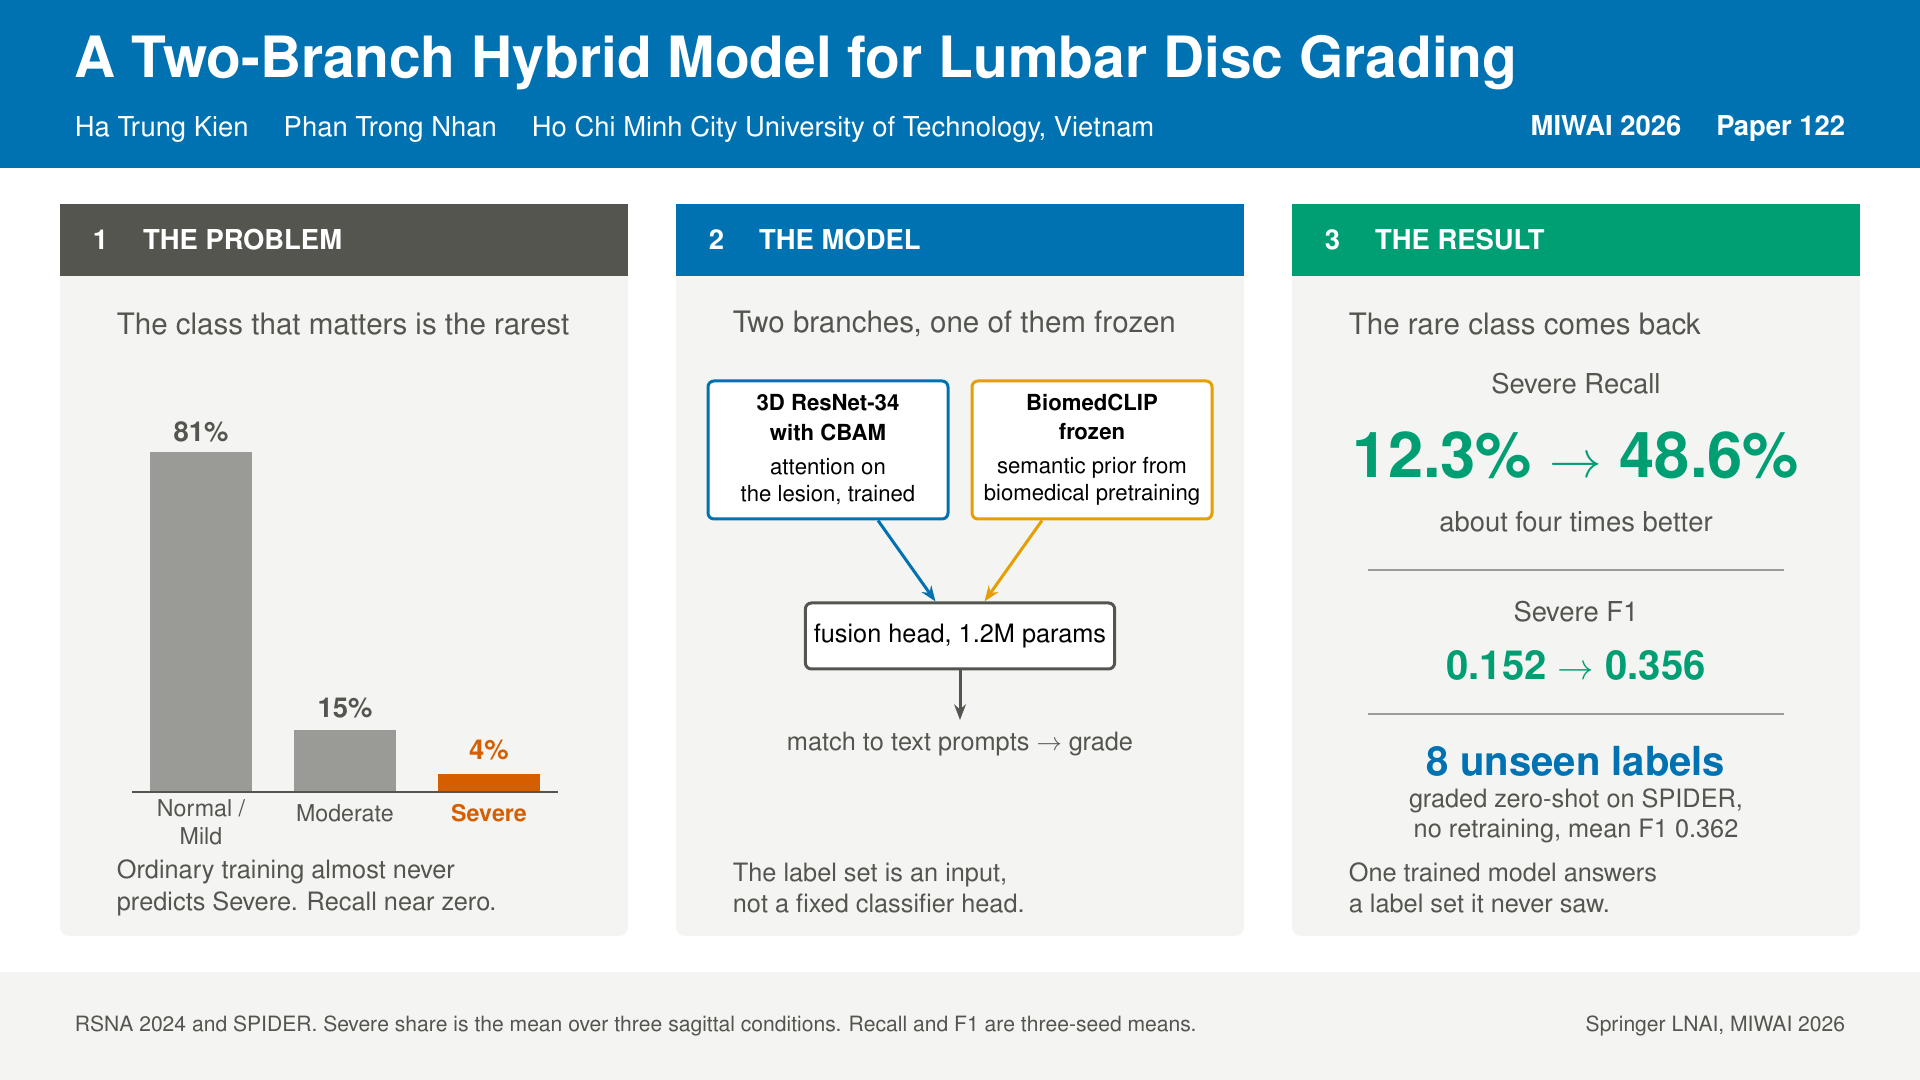
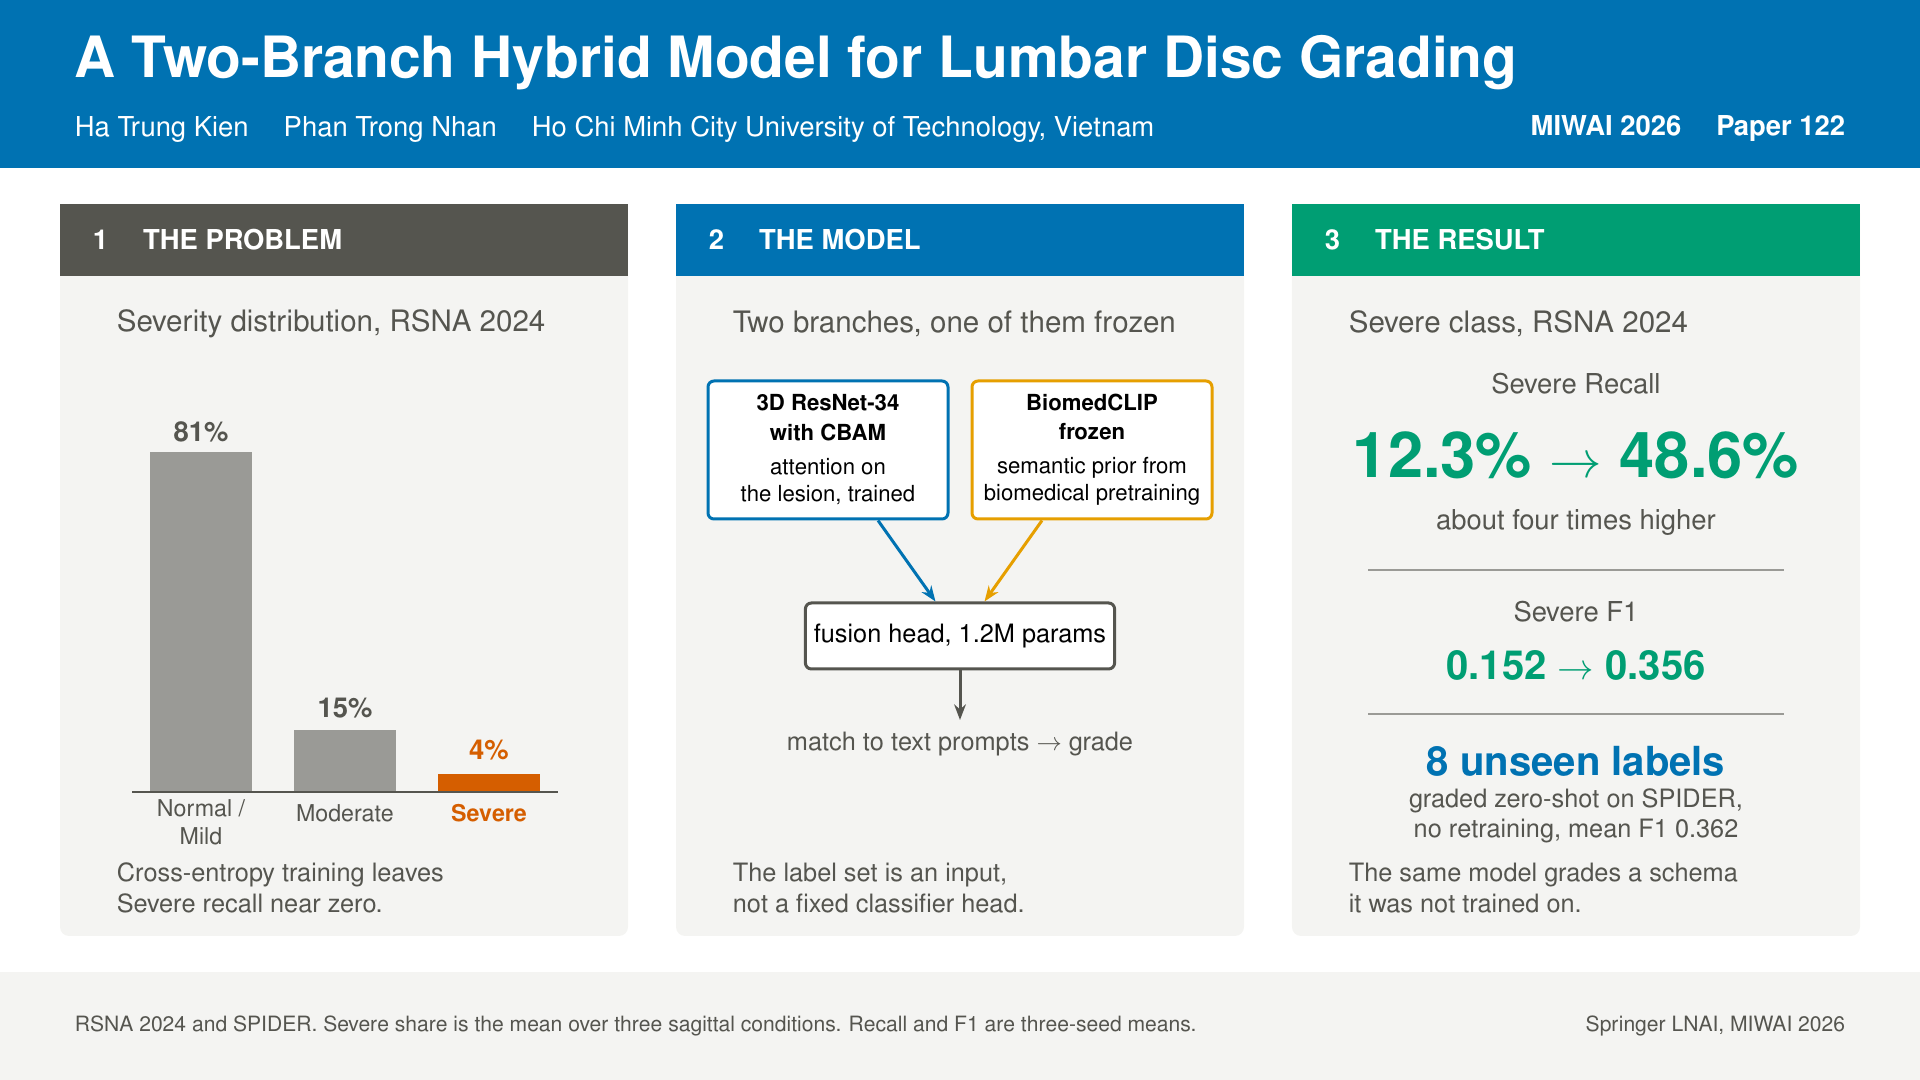
miwai(async): plainer wording on the infographic and the README
The three panel subheadings were slogans rather than descriptions: "The class
that matters is the rarest", "The rare class comes back", and "One trained
model answers a label set it never saw". They now say what the panel shows.
"About four times better" became "about four times higher", since what is
four times larger is the recall, not the model.

The README had section headings written like a consultant's deck. It now reads
as a student writing to his advisor, and the three open points are numbered
questions rather than a bulleted list of assertions.

diff --git a/paper/camera_ready/miwai_async/infographic.tex b/paper/camera_ready/miwai_async/infographic.tex
@@ -61,7 +61,7 @@
 
 %% ------------------------------------------------- panel 1: imbalance
 \node[anchor=west, font=\fontsize{14}{17}\selectfont, text=inkGrey]
-     at (18,126) {The class that matters is the rarest};
+     at (18,126) {Severity distribution, RSNA 2024};
 
 % bars, baseline at y = 48, full scale 70 mm = 100 %
 \fill[barGrey]      (25,48) rectangle ++(17,56.7);
@@ -78,7 +78,7 @@
 \node[font=\fontsize{11}{13}\selectfont\bfseries, text=oiVermillion] at (81.5,44.5) {Severe};
 
 \node[anchor=west, font=\fontsize{12}{15}\selectfont, text=inkGrey, align=left]
-     at (18,32) {Ordinary training almost never\\predicts Severe. Recall near zero.};
+     at (18,32) {Cross-entropy training leaves\\Severe recall near zero.};
 
 %% ------------------------------------------------- panel 2: architecture
 % The two boxes sit side by side, not stacked: stacking made the upper
@@ -113,12 +113,12 @@
 
 %% ------------------------------------------------- panel 3: results
 \node[anchor=west, font=\fontsize{14}{17}\selectfont, text=inkGrey]
-     at (223.33,126) {The rare class comes back};
+     at (223.33,126) {Severe class, RSNA 2024};
 
 \node[font=\fontsize{13}{15}\selectfont, text=inkGrey] at (262.67,116) {Severe Recall};
 \node[font=\fontsize{30}{32}\selectfont\bfseries, text=oiGreen] at (262.67,104)
      {12.3\% $\rightarrow$ 48.6\%};
-\node[font=\fontsize{13}{15}\selectfont, text=inkGrey] at (262.67,93) {about four times better};
+\node[font=\fontsize{13}{15}\selectfont, text=inkGrey] at (262.67,93) {about four times higher};
 
 \draw[barGrey, line width=0.25mm] (228,85) -- (297.33,85);
 
@@ -134,7 +134,7 @@
      {graded zero-shot on SPIDER,\\no retraining, mean F1 0.362};
 
 \node[anchor=west, font=\fontsize{12}{15}\selectfont, text=inkGrey, align=left]
-     at (223.33,32) {One trained model answers\\a label set it never saw.};
+     at (223.33,32) {The same model grades a schema\\it was not trained on.};
 
 %% ---------------------------------------------------------------- footer
 \fill[panelBg] (0,0) rectangle (320,18);

diff --git a/paper/camera_ready/miwai_async/README.md b/paper/camera_ready/miwai_async/README.md
@@ -1,55 +1,52 @@
-# MIWAI 2026, paper 122: materials for the asynchronous session
+# MIWAI 2026, paper 122: files for the asynchronous session
 
-Everything the organizers asked for, in one place, plus the two files the
-live talk needs. Conference is in Halifax, Nova Scotia, 10 to 12 October 2026.
+The conference is in Halifax, Nova Scotia, 10 to 12 October 2026.
 
-## What the organizers require
-
-Their email says every paper must take part in the asynchronous session, and
-that the asynchronous session carries "an abstract, infographic and video for
-each paper".
+The organizers wrote that every paper has to join the asynchronous session,
+and that it carries "an abstract, infographic and video for each paper".
 
 | Required | File | Status |
 | --- | --- | --- |
-| Abstract | `abstract.txt` | Ready. 247 words, taken verbatim from the accepted paper. |
-| Infographic | `infographic.png` | Draft for review. 1920 x 1080. |
-| Video | not here | Not recorded yet. Script and slides below are the raw material. |
+| Abstract | `abstract.txt` | Done. 247 words, copied from the accepted paper. |
+| Infographic | `infographic.png` | Draft. 1920 x 1080. |
+| Video | | Not recorded yet. |
 
-## Supporting files, not submitted on their own
+The slides and the script are not submitted on their own, but the video will
+be recorded from them.
 
 | File | What it is |
 | --- | --- |
-| `presentation_miwai.pdf` | The talk deck, 23 pages: 14 to present, 3 of references, 5 held in reserve for questions. |
-| `TALK_SCRIPT.md` | Word for word speaking script, timed per slide, lands at 13 to 14 minutes inside a 15 minute slot. Also carries the anticipated questions and their answers. |
-| `infographic.tex` | Source of the infographic. Rebuild with the two commands in its header comment. |
+| `presentation_miwai.pdf` | The deck, 23 pages. 14 to present, 3 of references, 5 kept back for questions. |
+| `TALK_SCRIPT.md` | What to say on each slide, with timings. Runs 13 to 14 minutes in a 15 minute slot. Likely questions are at the end. |
+| `infographic.tex` | Source of the infographic. Build commands are in its header. |
 
-## Notes for the reviewer
+## Where the numbers come from
 
-**Every number on the infographic comes from the abstract of the accepted
-paper.** None of it reports the later thesis experiments, which are a separate
-body of work and are not part of this paper.
+All of them come from the abstract of the accepted paper: Severe recall 12.3%
+to 48.6%, Severe F1 0.152 to 0.356, and eight unseen SPIDER labels at mean F1
+0.362. Nothing from the thesis experiments appears here.
 
-- Severe Recall 12.3% to 48.6%, and Severe F1 0.152 to 0.356, on RSNA 2024.
-- Eight unseen SPIDER labels graded zero-shot, mean F1 0.362.
-- The Severe share of 4% in panel 1 is the mean over the three sagittal
-  conditions, whose individual values are 4.8%, 4.1% and 3.9%.
+The 4% Severe share in the first panel is the mean of 4.8%, 4.1% and 3.9%,
+which are the three sagittal conditions.
 
-**Design choices worth a second opinion.**
+## Three things I would like your opinion on
 
-- The colours are the Okabe-Ito set, which stays legible under the common
-  forms of colour vision deficiency. No meaning is carried by colour alone.
-- The architecture is deliberately reduced to two boxes and a fusion step.
-  Published guidance on graphical abstracts is consistent that reusing a
-  paper's real architecture figure makes a poor infographic, because a methods
-  figure is built to be read slowly alongside the text.
-- The page carries roughly 100 words of body text. Publisher guidance for
-  journal graphical abstracts suggests staying under about 50. That guidance
-  targets a small thumbnail in a printed table of contents; this one is meant
-  to be read at full size in a browser. It is still the most likely thing to
-  cut if it reads as crowded.
+1. The page has about 100 words. Publishers who state a limit for graphical
+   abstracts say 50. That limit is written for a thumbnail in a printed
+   contents page, and this one is read at full size in a browser, so I went
+   over it. It is the first thing to cut if the page looks crowded.
 
-**Open question for the conference organizers, not settled here:** they have
-published no size, format or word limit for the infographic that we could
-find. 1920 x 1080 was chosen so the same aspect ratio serves the slides, the
-infographic and the video. If they publish a specification, the source file
-makes it cheap to re-export.
+2. I did not reuse Figure 1 from the paper. The guidance I found says a
+   methods figure makes a poor infographic, because it is drawn to be read
+   slowly next to the text. So the architecture here is two boxes and a
+   fusion step.
+
+3. The colours are the Okabe-Ito set, which stays readable with red-green
+   colour blindness. Nothing on the page depends on colour alone.
+
+## Still unknown
+
+The organizers have not published a size, format or word limit for the
+infographic, and have not given a deadline. I picked 1920 x 1080 so the
+slides, the infographic and the video share one aspect ratio. If they publish
+a specification later, re-exporting from the .tex file is quick.
